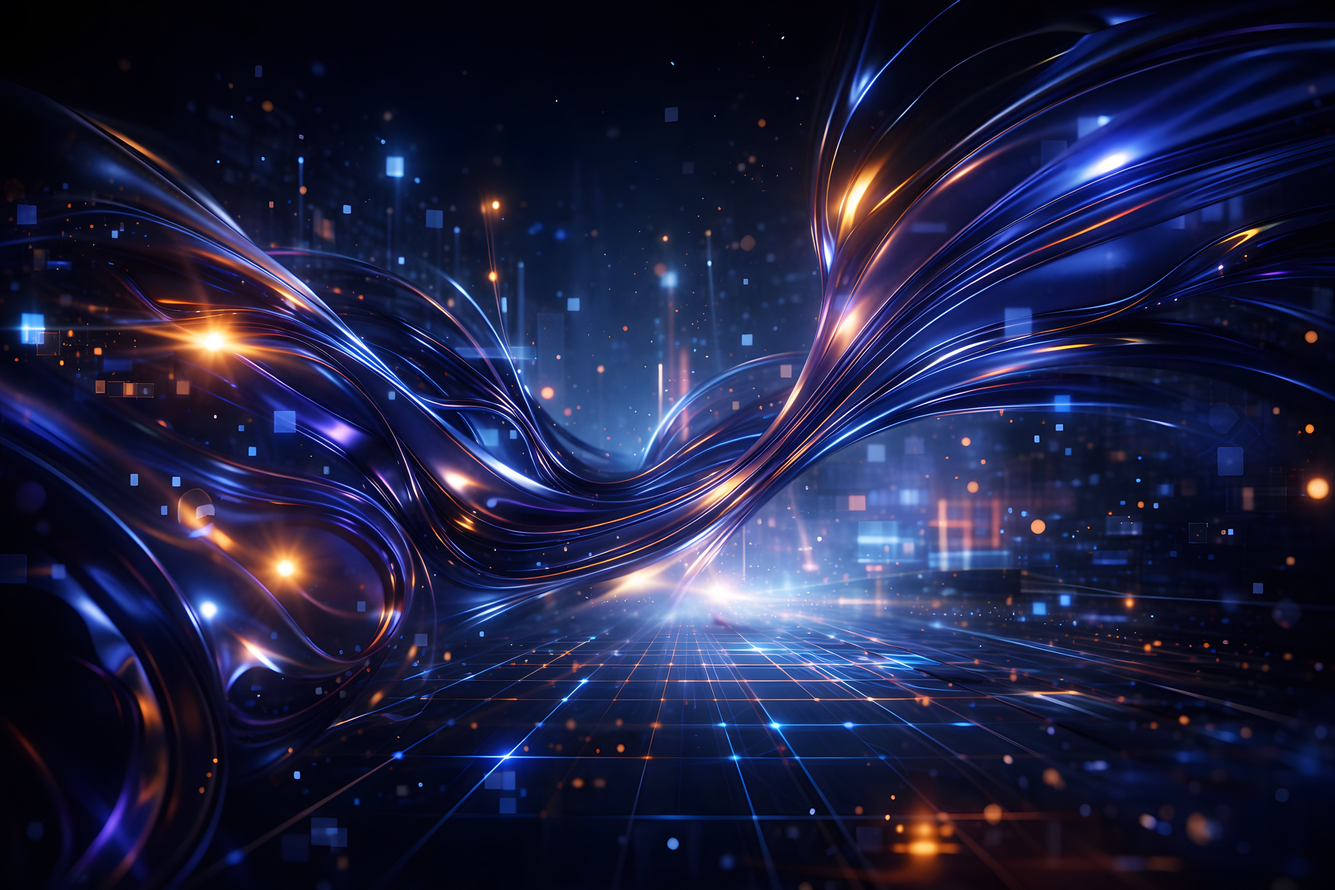
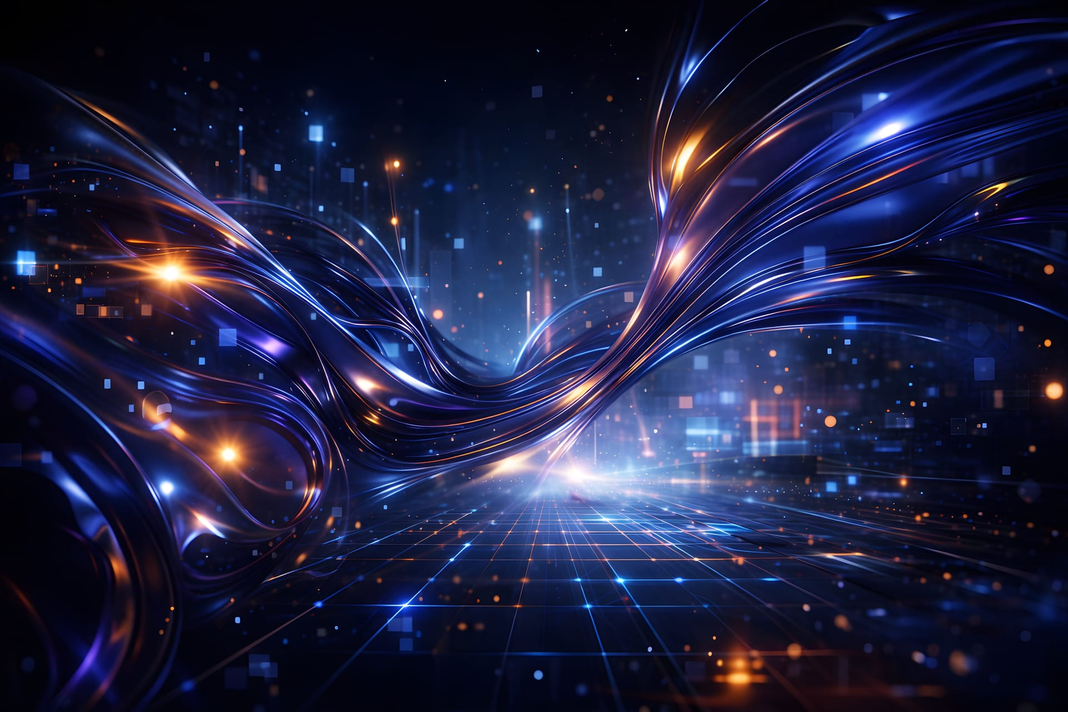
fix: audit site — compression images, sécurité XSS, accessibilité et SEO
- Compression de toutes les images (192MB → 1.7MB, -99%)
- Conversion PNG→JPG pour portfolio-propdesk, portfolio-alilm, testimonials-bg
- Correction faille XSS dans les emails de contact (escapeHtml)
- Fix hydration mismatch mobile (useSyncExternalStore)
- Ajout attribut inert sur le menu mobile quand fermé (a11y)
- Ajout données structurées JSON-LD ProfessionalService (SEO local)

Changed region(s): [[0.5938, 0.4688, 0.625, 0.5], [0.2812, 0.4062, 0.3125, 0.4375], [0.25, 0.375, 0.2812, 0.4062]]

diff --git a/src/app/api/contact/route.ts b/src/app/api/contact/route.ts
@@ -5,6 +5,15 @@ import { publicContactSchema } from '@/lib/validations';
 import { calculateLeadScore } from '@/lib/scoring/lead-scorer';
 import { rateLimit } from '@/lib/rateLimit';
 
+function escapeHtml(str: string): string {
+  return str
+    .replace(/&/g, '&amp;')
+    .replace(/</g, '&lt;')
+    .replace(/>/g, '&gt;')
+    .replace(/"/g, '&quot;')
+    .replace(/'/g, '&#39;');
+}
+
 export async function POST(request: NextRequest) {
   try {
     const ip = request.headers.get('x-forwarded-for') || request.headers.get('x-real-ip') || 'unknown';
@@ -64,6 +73,12 @@ export async function POST(request: NextRequest) {
     }
 
     // Send notification to admin
+    const safeName = escapeHtml(name);
+    const safeEmail = escapeHtml(email);
+    const safePhone = phone ? escapeHtml(phone) : '';
+    const safeType = selectedType ? escapeHtml(selectedType) : '';
+    const safeMessage = message ? escapeHtml(message) : '';
+
     await sendEmail({
       to: adminEmail,
       subject: `Nouveau lead: ${name} (score: ${score})`,
@@ -74,13 +89,13 @@ export async function POST(request: NextRequest) {
           <h2 style="color: #638BFF;">Nouveau lead depuis le site</h2>
           <p style="color: #333; font-size: 14px; margin-bottom: 16px;">Un nouveau contact a ete cree automatiquement dans le CRM avec un score de <strong>${score}/100</strong>.</p>
           <table style="width: 100%; border-collapse: collapse;">
-            <tr><td style="padding: 8px 0; color: #666;">Nom</td><td style="padding: 8px 0; font-weight: bold;">${name}</td></tr>
-            <tr><td style="padding: 8px 0; color: #666;">Email</td><td style="padding: 8px 0;">${email}</td></tr>
-            ${phone ? `<tr><td style="padding: 8px 0; color: #666;">Telephone</td><td style="padding: 8px 0;">${phone}</td></tr>` : ''}
-            ${selectedType ? `<tr><td style="padding: 8px 0; color: #666;">Type de projet</td><td style="padding: 8px 0;">${selectedType}</td></tr>` : ''}
+            <tr><td style="padding: 8px 0; color: #666;">Nom</td><td style="padding: 8px 0; font-weight: bold;">${safeName}</td></tr>
+            <tr><td style="padding: 8px 0; color: #666;">Email</td><td style="padding: 8px 0;">${safeEmail}</td></tr>
+            ${safePhone ? `<tr><td style="padding: 8px 0; color: #666;">Telephone</td><td style="padding: 8px 0;">${safePhone}</td></tr>` : ''}
+            ${safeType ? `<tr><td style="padding: 8px 0; color: #666;">Type de projet</td><td style="padding: 8px 0;">${safeType}</td></tr>` : ''}
             <tr><td style="padding: 8px 0; color: #666;">Rappel souhaite</td><td style="padding: 8px 0;">${wantCallback ? 'Oui' : 'Non'}</td></tr>
           </table>
-          ${message ? `<div style="margin-top: 16px; padding: 16px; background: #f5f5f5; border-radius: 8px;"><p style="margin: 0; color: #333;">${message}</p></div>` : ''}
+          ${safeMessage ? `<div style="margin-top: 16px; padding: 16px; background: #f5f5f5; border-radius: 8px;"><p style="margin: 0; color: #333;">${safeMessage}</p></div>` : ''}
         </div>
       `,
       textContent: `Nouveau lead (score: ${score}/100):\nNom: ${name}\nEmail: ${email}\nTel: ${phone || 'N/A'}\nType: ${selectedType || 'N/A'}\nMessage: ${message || 'Aucun'}\nRappel: ${wantCallback ? 'Oui' : 'Non'}`,
@@ -94,7 +109,7 @@ export async function POST(request: NextRequest) {
       contactId: contact.id,
       htmlContent: `
         <div style="font-family: sans-serif; max-width: 600px; margin: 0 auto;">
-          <h2 style="color: #638BFF;">Merci ${name} !</h2>
+          <h2 style="color: #638BFF;">Merci ${safeName} !</h2>
           <p>Nous avons bien recu votre demande et nous vous recontacterons rapidement.</p>
           ${wantCallback ? '<p>Comme demande, nous vous rappellerons dans les meilleurs delais.</p>' : ''}
           <p style="color: #666; margin-top: 24px;">A bientot,<br><strong>JL Studio</strong></p>

diff --git a/src/app/layout.tsx b/src/app/layout.tsx
@@ -33,6 +33,38 @@ export const metadata: Metadata = {
   },
 };
 
+const jsonLd = {
+  "@context": "https://schema.org",
+  "@type": "ProfessionalService",
+  name: "JL Studio",
+  url: "https://jlstudio.dev",
+  logo: "https://jlstudio.dev/images/logo-jlstudio.png",
+  description:
+    "Développeur web freelance à Bordeaux. Sites vitrine, e-commerce et applications web sur mesure.",
+  address: {
+    "@type": "PostalAddress",
+    streetAddress: "35 quai Deschamps",
+    addressLocality: "Bordeaux",
+    postalCode: "33100",
+    addressCountry: "FR",
+  },
+  telephone: "+33767581061",
+  email: "contact@jlstudio.dev",
+  areaServed: {
+    "@type": "Country",
+    name: "France",
+  },
+  priceRange: "€€",
+  knowsAbout: [
+    "Développement web",
+    "Next.js",
+    "React",
+    "E-commerce",
+    "Applications web",
+    "SEO",
+  ],
+};
+
 export default function RootLayout({
   children,
 }: Readonly<{
@@ -41,6 +73,10 @@ export default function RootLayout({
   return (
     <html lang="fr" className="scroll-smooth">
       <body className={`${outfit.variable} ${dmSans.variable} antialiased`}>
+        <script
+          type="application/ld+json"
+          dangerouslySetInnerHTML={{ __html: JSON.stringify(jsonLd) }}
+        />
         {children}
       </body>
     </html>

diff --git a/src/components/landing-v3/PortfolioParallax.tsx b/src/components/landing-v3/PortfolioParallax.tsx
@@ -83,7 +83,7 @@ const projects: Project[] = [
     title: 'PropDesk',
     category: 'Plateforme Fintech & IA',
     tags: ['Next.js 16', 'PyTorch', 'Databento', 'PostgreSQL'],
-    image: '/images/portfolio-propdesk.png',
+    image: '/images/portfolio-propdesk.jpg',
     description: "Plateforme de trading IA combinant pilotage multi-comptes, gestion du risque et exécution automatisée via deep learning sur données de niveau institutionnel.",
     features: {
       title: "Écosystème trading complet",
@@ -107,7 +107,7 @@ const projects: Project[] = [
     title: 'Al-Ilm',
     category: 'Plateforme Éducative',
     tags: ['Next.js 16', 'TypeScript', 'Tailwind CSS', 'GSAP'],
-    image: '/images/portfolio-alilm.png',
+    image: '/images/portfolio-alilm.jpg',
     description: "Plateforme d'apprentissage islamique complète : lecture du Coran, collections de hadiths authentiques et ressources éducatives interactives.",
     features: {
       title: 'Contenu riche et interactif',

diff --git a/src/hooks/useMediaQuery.ts b/src/hooks/useMediaQuery.ts
@@ -1,20 +1,18 @@
 'use client';
 
-import { useState, useEffect } from 'react';
+import { useSyncExternalStore } from 'react';
+
+function subscribe(callback: () => void) {
+  window.addEventListener('resize', callback);
+  return () => window.removeEventListener('resize', callback);
+}
 
 export function useMediaQuery(query: string): boolean {
-  const [matches, setMatches] = useState(false);
-
-  useEffect(() => {
-    const mql = window.matchMedia(query);
-    setMatches(mql.matches);
-
-    const handler = (e: MediaQueryListEvent) => setMatches(e.matches);
-    mql.addEventListener('change', handler);
-    return () => mql.removeEventListener('change', handler);
-  }, [query]);
-
-  return matches;
+  return useSyncExternalStore(
+    subscribe,
+    () => window.matchMedia(query).matches,
+    () => false, // SSR fallback
+  );
 }
 
 export function useIsMobile() {

diff --git a/src/components/landing-v3/TestimonialsSection.tsx b/src/components/landing-v3/TestimonialsSection.tsx
@@ -149,7 +149,7 @@ export default function TestimonialsSection() {
       <div className="absolute inset-0 overflow-hidden">
         <div ref={bgRef} className="absolute inset-[-15%] will-change-transform">
           <Image
-            src="/images/testimonials-bg.png"
+            src="/images/testimonials-bg.jpg"
             alt=""
             fill
             className="object-cover"

diff --git a/src/components/landing-v3/HeaderV3.tsx b/src/components/landing-v3/HeaderV3.tsx
@@ -180,6 +180,7 @@ export default function HeaderV3() {
         className="fixed inset-0 z-[59] bg-black/95 backdrop-blur-2xl md:hidden"
         style={{ clipPath: 'circle(0% at calc(100% - 36px) 32px)', height: '100dvh' }}
         aria-hidden={!menuOpen}
+        {...(!menuOpen && { inert: true as unknown as boolean })}
       >
         {/* Subtle background gradient */}
         <div
